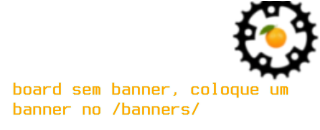
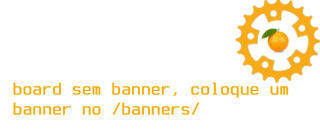
pequenos ajustes 2.0

Changed region(s): [[0.7188, 0.0, 1.0, 0.6462]]

diff --git a/README.md b/README.md
@@ -1,5 +1,4 @@
-[![LaranjaEngine](https://files.catbox.moe/8clh3g.png "LaranjaEngine")](https://files.catbox.moe/8clh3g.png "LaranjaEngine")
-
+[![LaranjaEngine](https://files.catbox.moe/fb25km.png "LaranjaEngine")](https://files.catbox.moe/fb25km.png "LaranjaEngine")
 ------------
 # como que instala isso?
 
